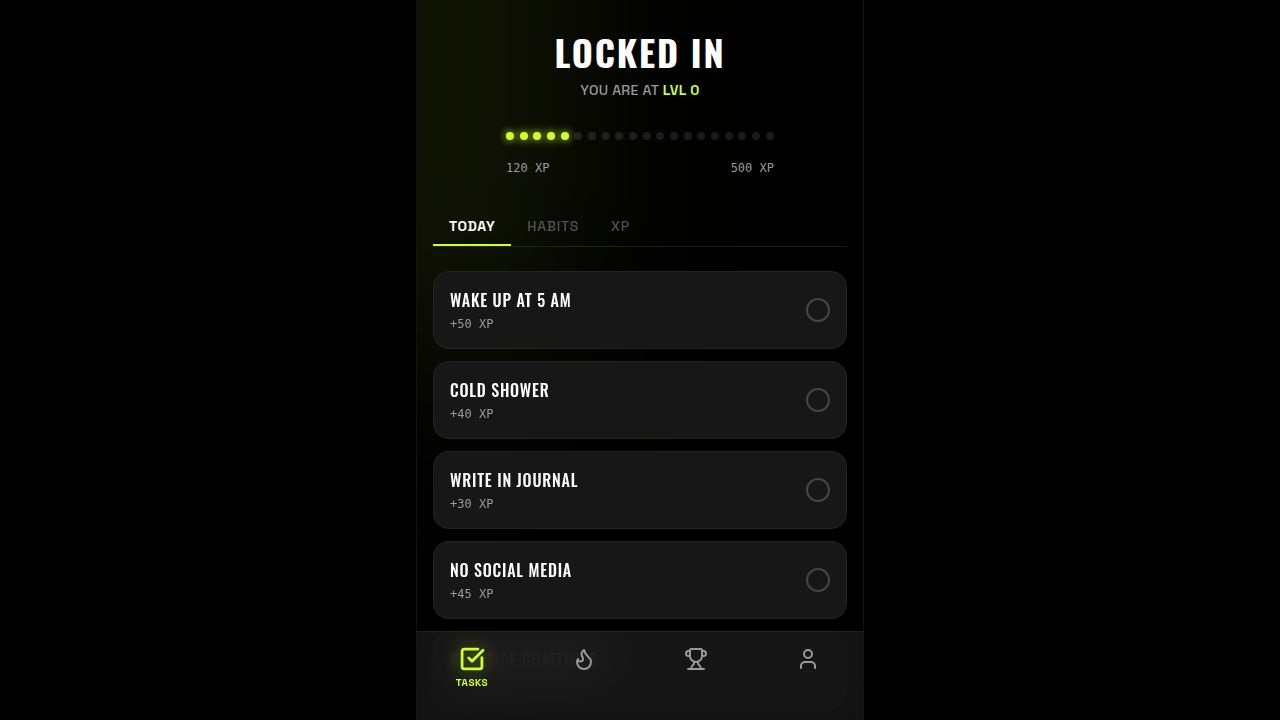
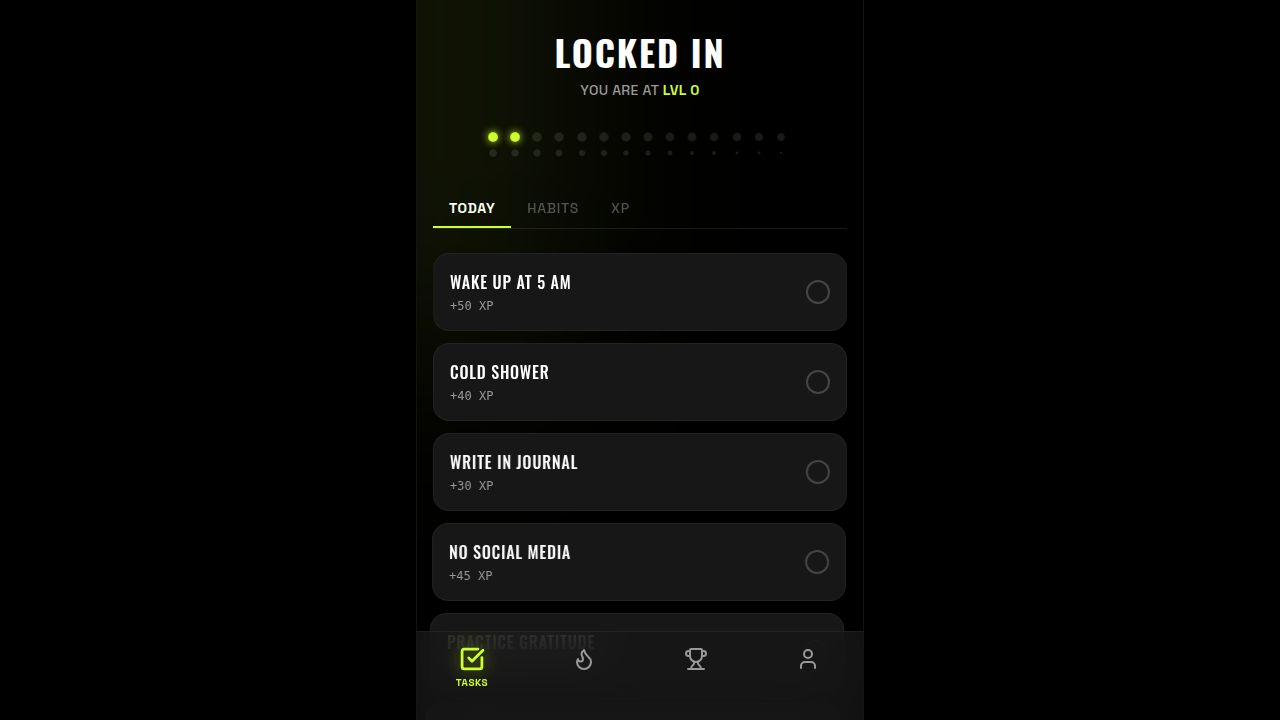
Update habit tracker to use 28-day sprint visuals and failure states
Refactor `XPProgress` component to display a 28-day sprint grid using `DayStatus` array. Implement `failDay` function in `use-habits` hook to mark days as failed, represented by red dots, and reset streak.

Replit-Commit-Author: Agent
Replit-Commit-Session-Id: 96967c1e-cb20-49bc-9b71-f68a051adc4d
Replit-Commit-Checkpoint-Type: full_checkpoint
Replit-Commit-Event-Id: 3091f686-0bdf-40e6-9bf3-e6e0399c6877
Replit-Commit-Screenshot-Url: https://storage.googleapis.com/screenshot-production-us-central1/682f1814-deda-49a4-8125-02c012bd1410/96967c1e-cb20-49bc-9b71-f68a051adc4d/1zRpfwr
Replit-Helium-Checkpoint-Created: true

diff --git a/client/src/hooks/use-habits.tsx b/client/src/hooks/use-habits.tsx
@@ -1,4 +1,4 @@
-import { useState, createContext, useContext, ReactNode, useEffect } from 'react';
+import { useState, createContext, useContext, ReactNode } from 'react';
 import { useToast } from '@/hooks/use-toast';
 
 export type Habit = {
@@ -8,6 +8,8 @@ export type Habit = {
   category: 'health' | 'mindset' | 'fitness' | 'routine';
 };
 
+export type DayStatus = 'pending' | 'completed' | 'failed';
+
 export type User = {
   name: string;
   level: number;
@@ -15,7 +17,7 @@ export type User = {
   nextLevelXp: number;
   streak: number;
   todayCompletions: string[]; // array of habit IDs
-  history: Record<string, string[]>; // date -> array of habit IDs
+  sprintDays: DayStatus[]; // 28 days status
 };
 
 type HabitsContextType = {
@@ -25,6 +27,7 @@ type HabitsContextType = {
   addHabit: (habit: Omit<Habit, 'id'>) => void;
   removeHabit: (habitId: string) => void;
   completeDay: () => void;
+  failDay: () => void;
 };
 
 const HabitsContext = createContext<HabitsContextType | undefined>(undefined);
@@ -47,7 +50,7 @@ const INITIAL_USER: User = {
   nextLevelXp: 500,
   streak: 3,
   todayCompletions: [],
-  history: {},
+  sprintDays: Array(28).fill('pending').map((s, i) => i < 2 ? 'completed' : s), // Start with 2 completed
 };
 
 export function HabitsProvider({ children }: { children: ReactNode }) {
@@ -71,7 +74,6 @@ export function HabitsProvider({ children }: { children: ReactNode }) {
         newXp += habit.xp;
         newCompletions.push(habitId);
         
-        // Check for level up
         if (newXp >= prev.nextLevelXp) {
            toast({
              title: "LEVEL UP!",
@@ -81,7 +83,6 @@ export function HabitsProvider({ children }: { children: ReactNode }) {
         }
       }
       
-      // Simple level calculation for mock
       const level = Math.floor(newXp / 500);
       const nextLevelXp = (level + 1) * 500;
 
@@ -106,15 +107,52 @@ export function HabitsProvider({ children }: { children: ReactNode }) {
   };
 
   const completeDay = () => {
+    setUser(prev => {
+        const nextPendingIndex = prev.sprintDays.findIndex(s => s === 'pending');
+        if (nextPendingIndex === -1) return prev;
+        
+        const newSprintDays = [...prev.sprintDays];
+        newSprintDays[nextPendingIndex] = 'completed';
+        
+        return {
+            ...prev,
+            sprintDays: newSprintDays,
+            todayCompletions: [],
+            streak: prev.streak + 1
+        };
+    });
     toast({
         title: "DAY COMPLETE",
-        description: "Streak maintained. Good work.",
+        description: "Sprint progress recorded.",
         className: "bg-primary text-primary-foreground border-none font-display uppercase tracking-wider"
     });
   };
 
+  const failDay = () => {
+    setUser(prev => {
+        const nextPendingIndex = prev.sprintDays.findIndex(s => s === 'pending');
+        if (nextPendingIndex === -1) return prev;
+        
+        const newSprintDays = [...prev.sprintDays];
+        newSprintDays[nextPendingIndex] = 'failed';
+        
+        return {
+            ...prev,
+            sprintDays: newSprintDays,
+            todayCompletions: [],
+            streak: 0
+        };
+    });
+    toast({
+        title: "FAILED",
+        description: "Sprint day marked as failed. Resetting streak.",
+        variant: "destructive",
+        className: "uppercase font-display tracking-wider"
+    });
+  };
+
   return (
-    <HabitsContext.Provider value={{ habits, user, toggleHabit, addHabit, removeHabit, completeDay }}>
+    <HabitsContext.Provider value={{ habits, user, toggleHabit, addHabit, removeHabit, completeDay, failDay }}>
       {children}
     </HabitsContext.Provider>
   );

diff --git a/client/src/components/xp-progress.tsx b/client/src/components/xp-progress.tsx
@@ -1,21 +1,17 @@
 import { motion } from "framer-motion";
 import { cn } from "@/lib/utils";
+import { DayStatus } from "@/hooks/use-habits";
 
-interface XPProgressProps {
-  current: number;
-  total: number;
+interface SprintProgressProps {
+  days: DayStatus[];
   level: number;
 }
 
-export function XPProgress({ current, total, level }: XPProgressProps) {
-  const percentage = Math.min(100, (current / total) * 100);
-  const dots = 12; // Number of dots in the circular/linear representation
-
+export function XPProgress({ days, level }: SprintProgressProps) {
   return (
     <div className="flex flex-col items-center justify-center py-8">
-      <div className="relative w-full max-w-[300px] flex flex-col items-center gap-4">
+      <div className="relative w-full max-w-[320px] flex flex-col items-center gap-4">
         
-        {/* Level Indicator */}
         <motion.div 
           initial={{ opacity: 0, y: -20 }}
           animate={{ opacity: 1, y: 0 }}
@@ -27,30 +23,23 @@ export function XPProgress({ current, total, level }: XPProgressProps) {
           </p>
         </motion.div>
 
-        {/* Progress Bar / Dots */}
-        <div className="w-full flex justify-between gap-1 mt-4 px-4">
-            {Array.from({ length: 20 }).map((_, i) => {
-                const isActive = (i / 20) * 100 < percentage;
-                return (
-                    <motion.div
-                        key={i}
-                        initial={{ scale: 0 }}
-                        animate={{ scale: 1 }}
-                        transition={{ delay: i * 0.02 }}
-                        className={cn(
-                            "h-2 w-2 rounded-full transition-colors duration-500",
-                            isActive ? "bg-primary shadow-[0_0_8px_var(--color-primary)]" : "bg-white/10"
-                        )}
-                    />
-                )
-            })}
+        {/* 28 Day Sprint Grid (14x2 for compact look) */}
+        <div className="w-full grid grid-cols-14 gap-1.5 mt-4 px-2">
+            {days.map((status, i) => (
+                <motion.div
+                    key={i}
+                    initial={{ scale: 0 }}
+                    animate={{ scale: 1 }}
+                    transition={{ delay: i * 0.01 }}
+                    className={cn(
+                        "h-2.5 w-2.5 rounded-full transition-all duration-500",
+                        status === 'completed' && "bg-primary shadow-[0_0_8px_var(--color-primary)]",
+                        status === 'failed' && "bg-destructive shadow-[0_0_8px_var(--color-destructive)]",
+                        status === 'pending' && "bg-white/10"
+                    )}
+                />
+            ))}
         </div>
-        
-        <div className="flex justify-between w-full px-4 text-xs text-muted-foreground font-mono mt-1">
-            <span>{current} XP</span>
-            <span>{total} XP</span>
-        </div>
-
       </div>
     </div>
   );

diff --git a/client/src/pages/dashboard.tsx b/client/src/pages/dashboard.tsx
@@ -2,13 +2,12 @@ import { useHabits } from "@/hooks/use-habits";
 import { XPProgress } from "@/components/xp-progress";
 import { motion, AnimatePresence } from "framer-motion";
 import { cn } from "@/lib/utils";
-import { Check, X } from "lucide-react";
+import { Check } from "lucide-react";
 import { Button } from "@/components/ui/button";
 
 export default function Dashboard() {
-  const { habits, user, toggleHabit, completeDay } = useHabits();
+  const { habits, user, toggleHabit, completeDay, failDay } = useHabits();
 
-  // Sort: Incomplete first, then completed
   const sortedHabits = [...habits].sort((a, b) => {
     const aCompleted = user.todayCompletions.includes(a.id);
     const bCompleted = user.todayCompletions.includes(b.id);
@@ -16,15 +15,12 @@ export default function Dashboard() {
     return aCompleted ? 1 : -1;
   });
 
-  const progress = (user.todayCompletions.length / habits.length) * 100;
-
   return (
     <div className="flex flex-col min-h-full">
-      <XPProgress current={user.currentXp} total={user.nextLevelXp} level={user.level} />
+      <XPProgress days={user.sprintDays} level={user.level} />
 
       <div className="flex-1 px-4 pb-8 space-y-6">
         
-        {/* Tabs Visual (Static for now as we use bottom nav for main switches) */}
         <div className="flex border-b border-white/10 mb-6">
             <div className="px-4 py-2 border-b-2 border-primary text-foreground font-bold text-sm uppercase tracking-wider">Today</div>
             <div className="px-4 py-2 text-muted-foreground font-medium text-sm uppercase tracking-wider opacity-50">Habits</div>
@@ -71,16 +67,6 @@ export default function Dashboard() {
                         {isCompleted && <Check className="h-4 w-4 text-black" strokeWidth={3} />}
                     </div>
                   </div>
-                  
-                  {/* Progress fill background */}
-                  {isCompleted && (
-                      <motion.div 
-                        layoutId={`fill-${habit.id}`}
-                        className="absolute inset-0 bg-primary/5 z-0" 
-                        initial={{ x: "-100%" }}
-                        animate={{ x: "0%" }}
-                      />
-                  )}
                 </motion.div>
               );
             })}
@@ -97,7 +83,8 @@ export default function Dashboard() {
             
             <Button 
                 variant="ghost"
-                className="w-full text-muted-foreground hover:text-white hover:bg-white/5 font-medium h-12 rounded-xl"
+                className="w-full text-muted-foreground hover:text-destructive hover:bg-destructive/10 font-medium h-12 rounded-xl border border-transparent hover:border-destructive/20 transition-all"
+                onClick={failDay}
             >
                 I Failed
             </Button>
